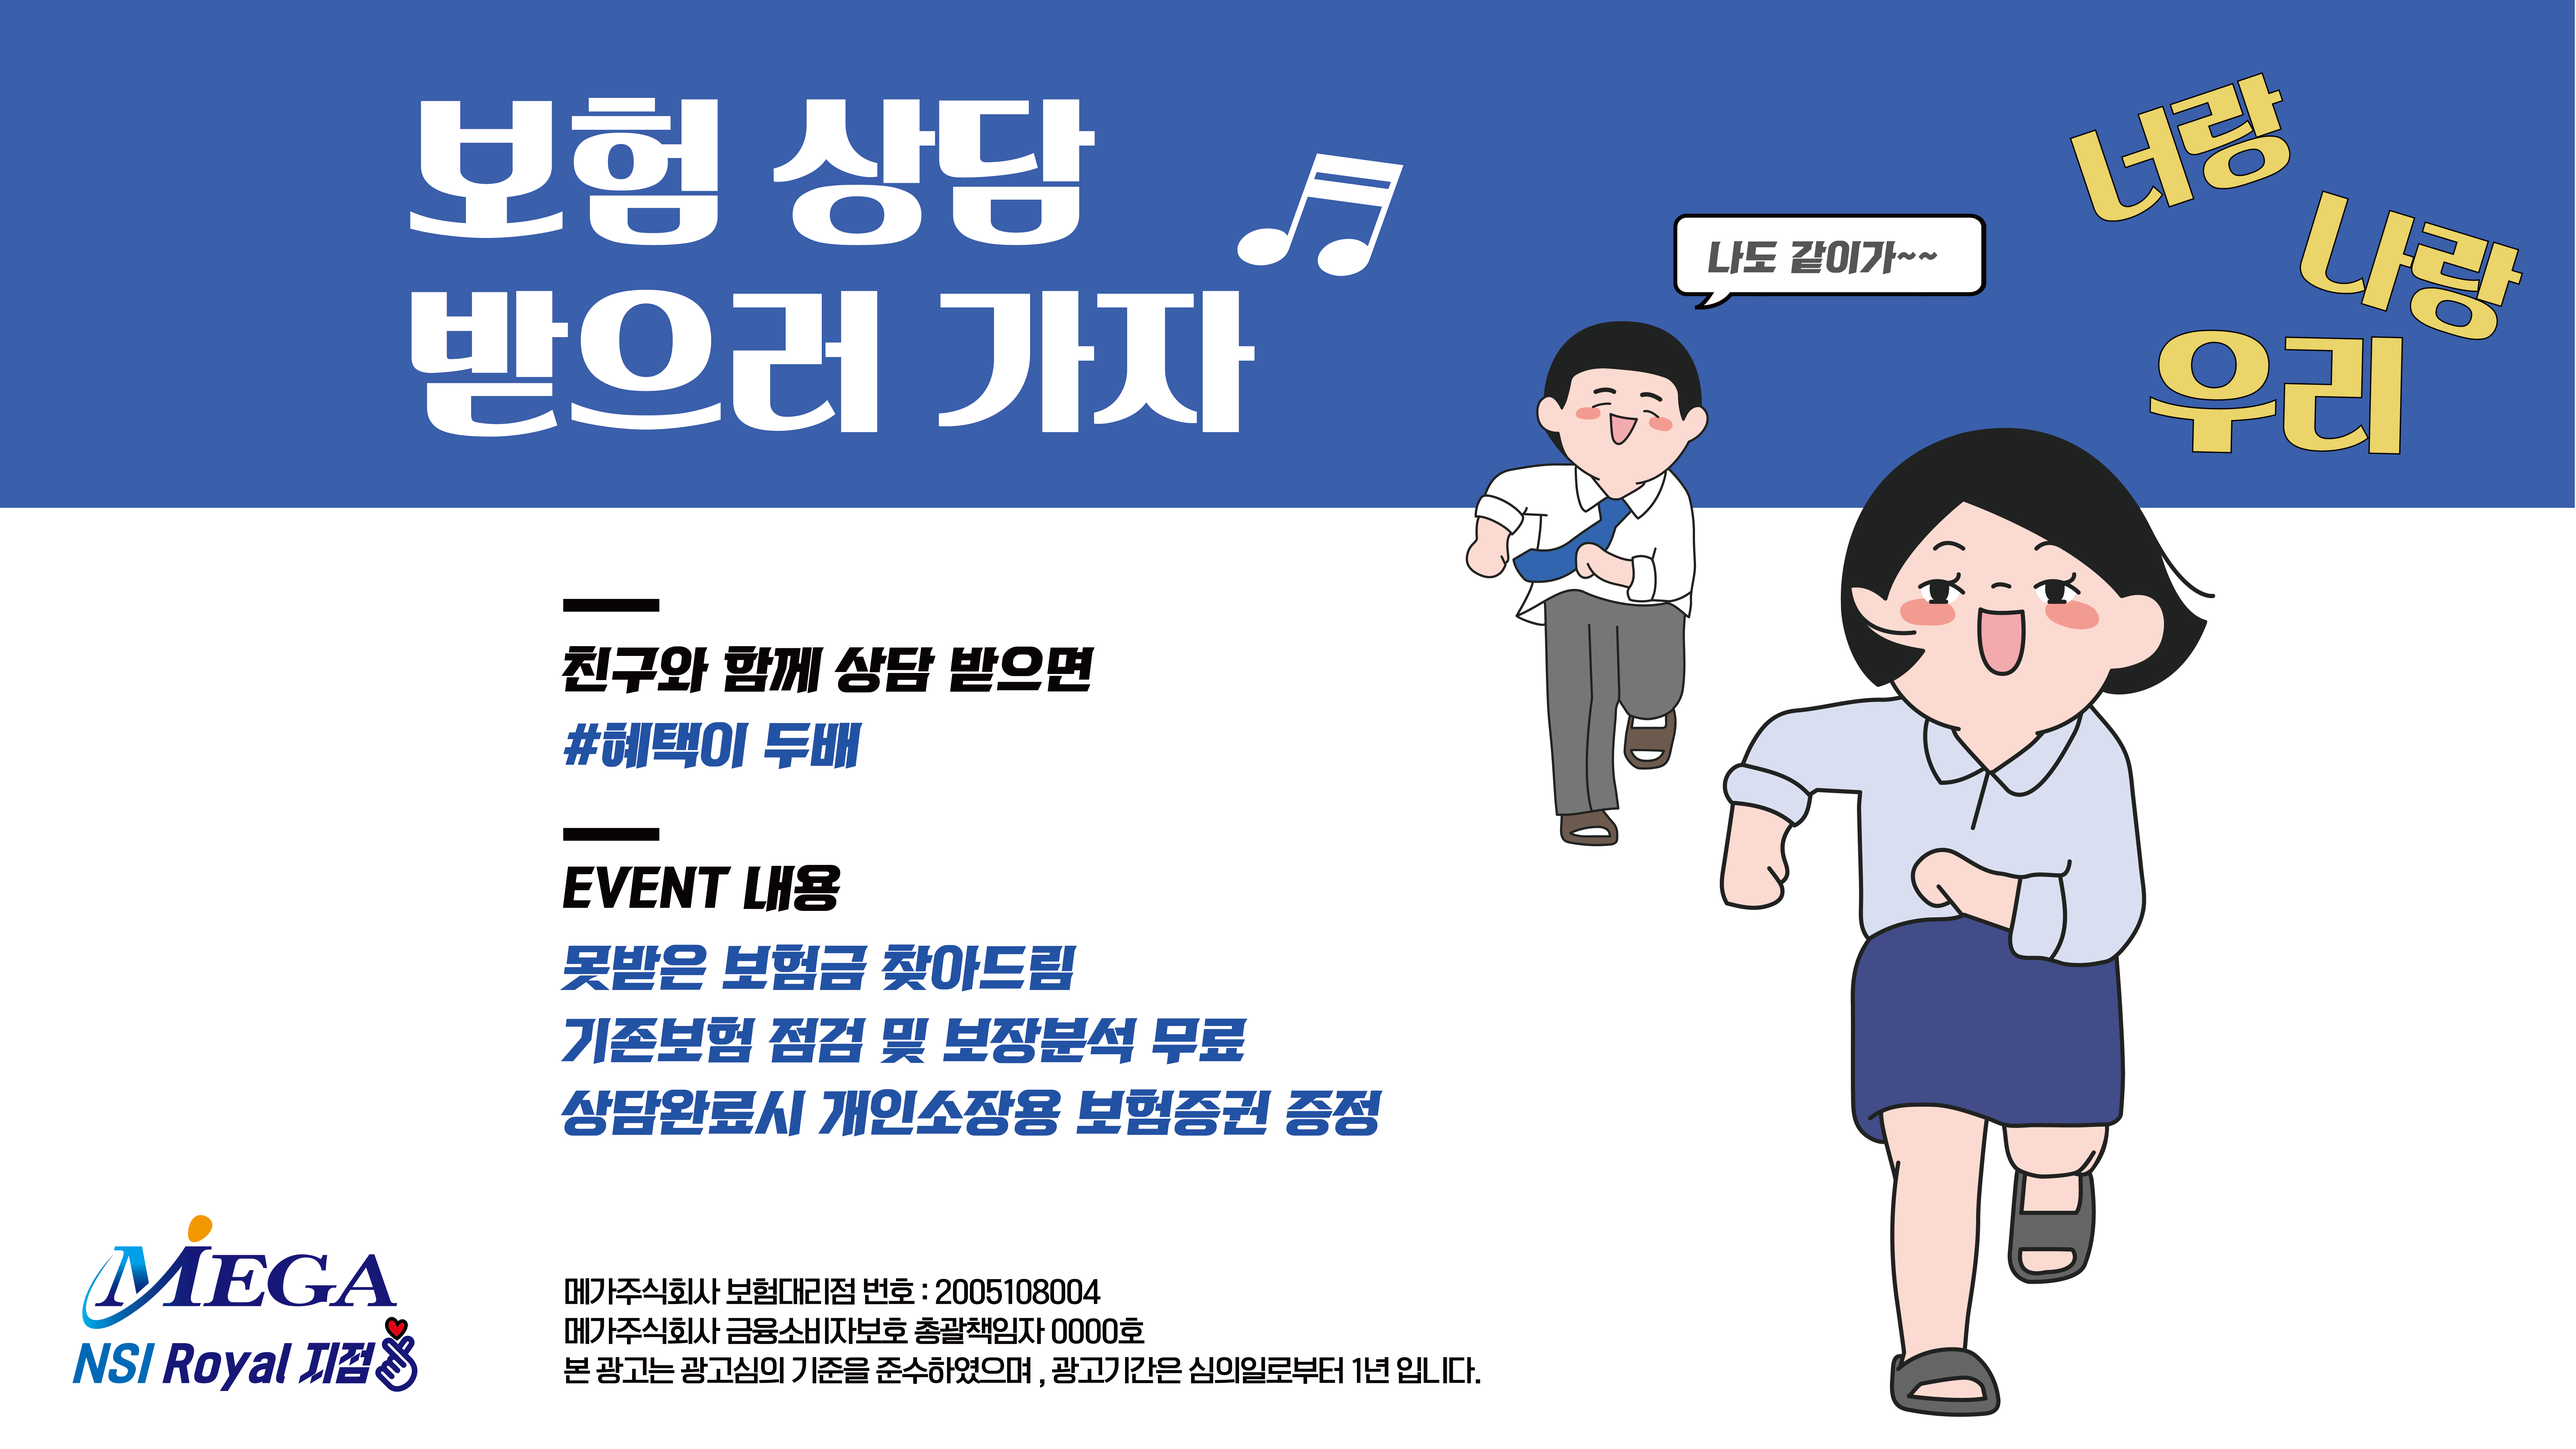
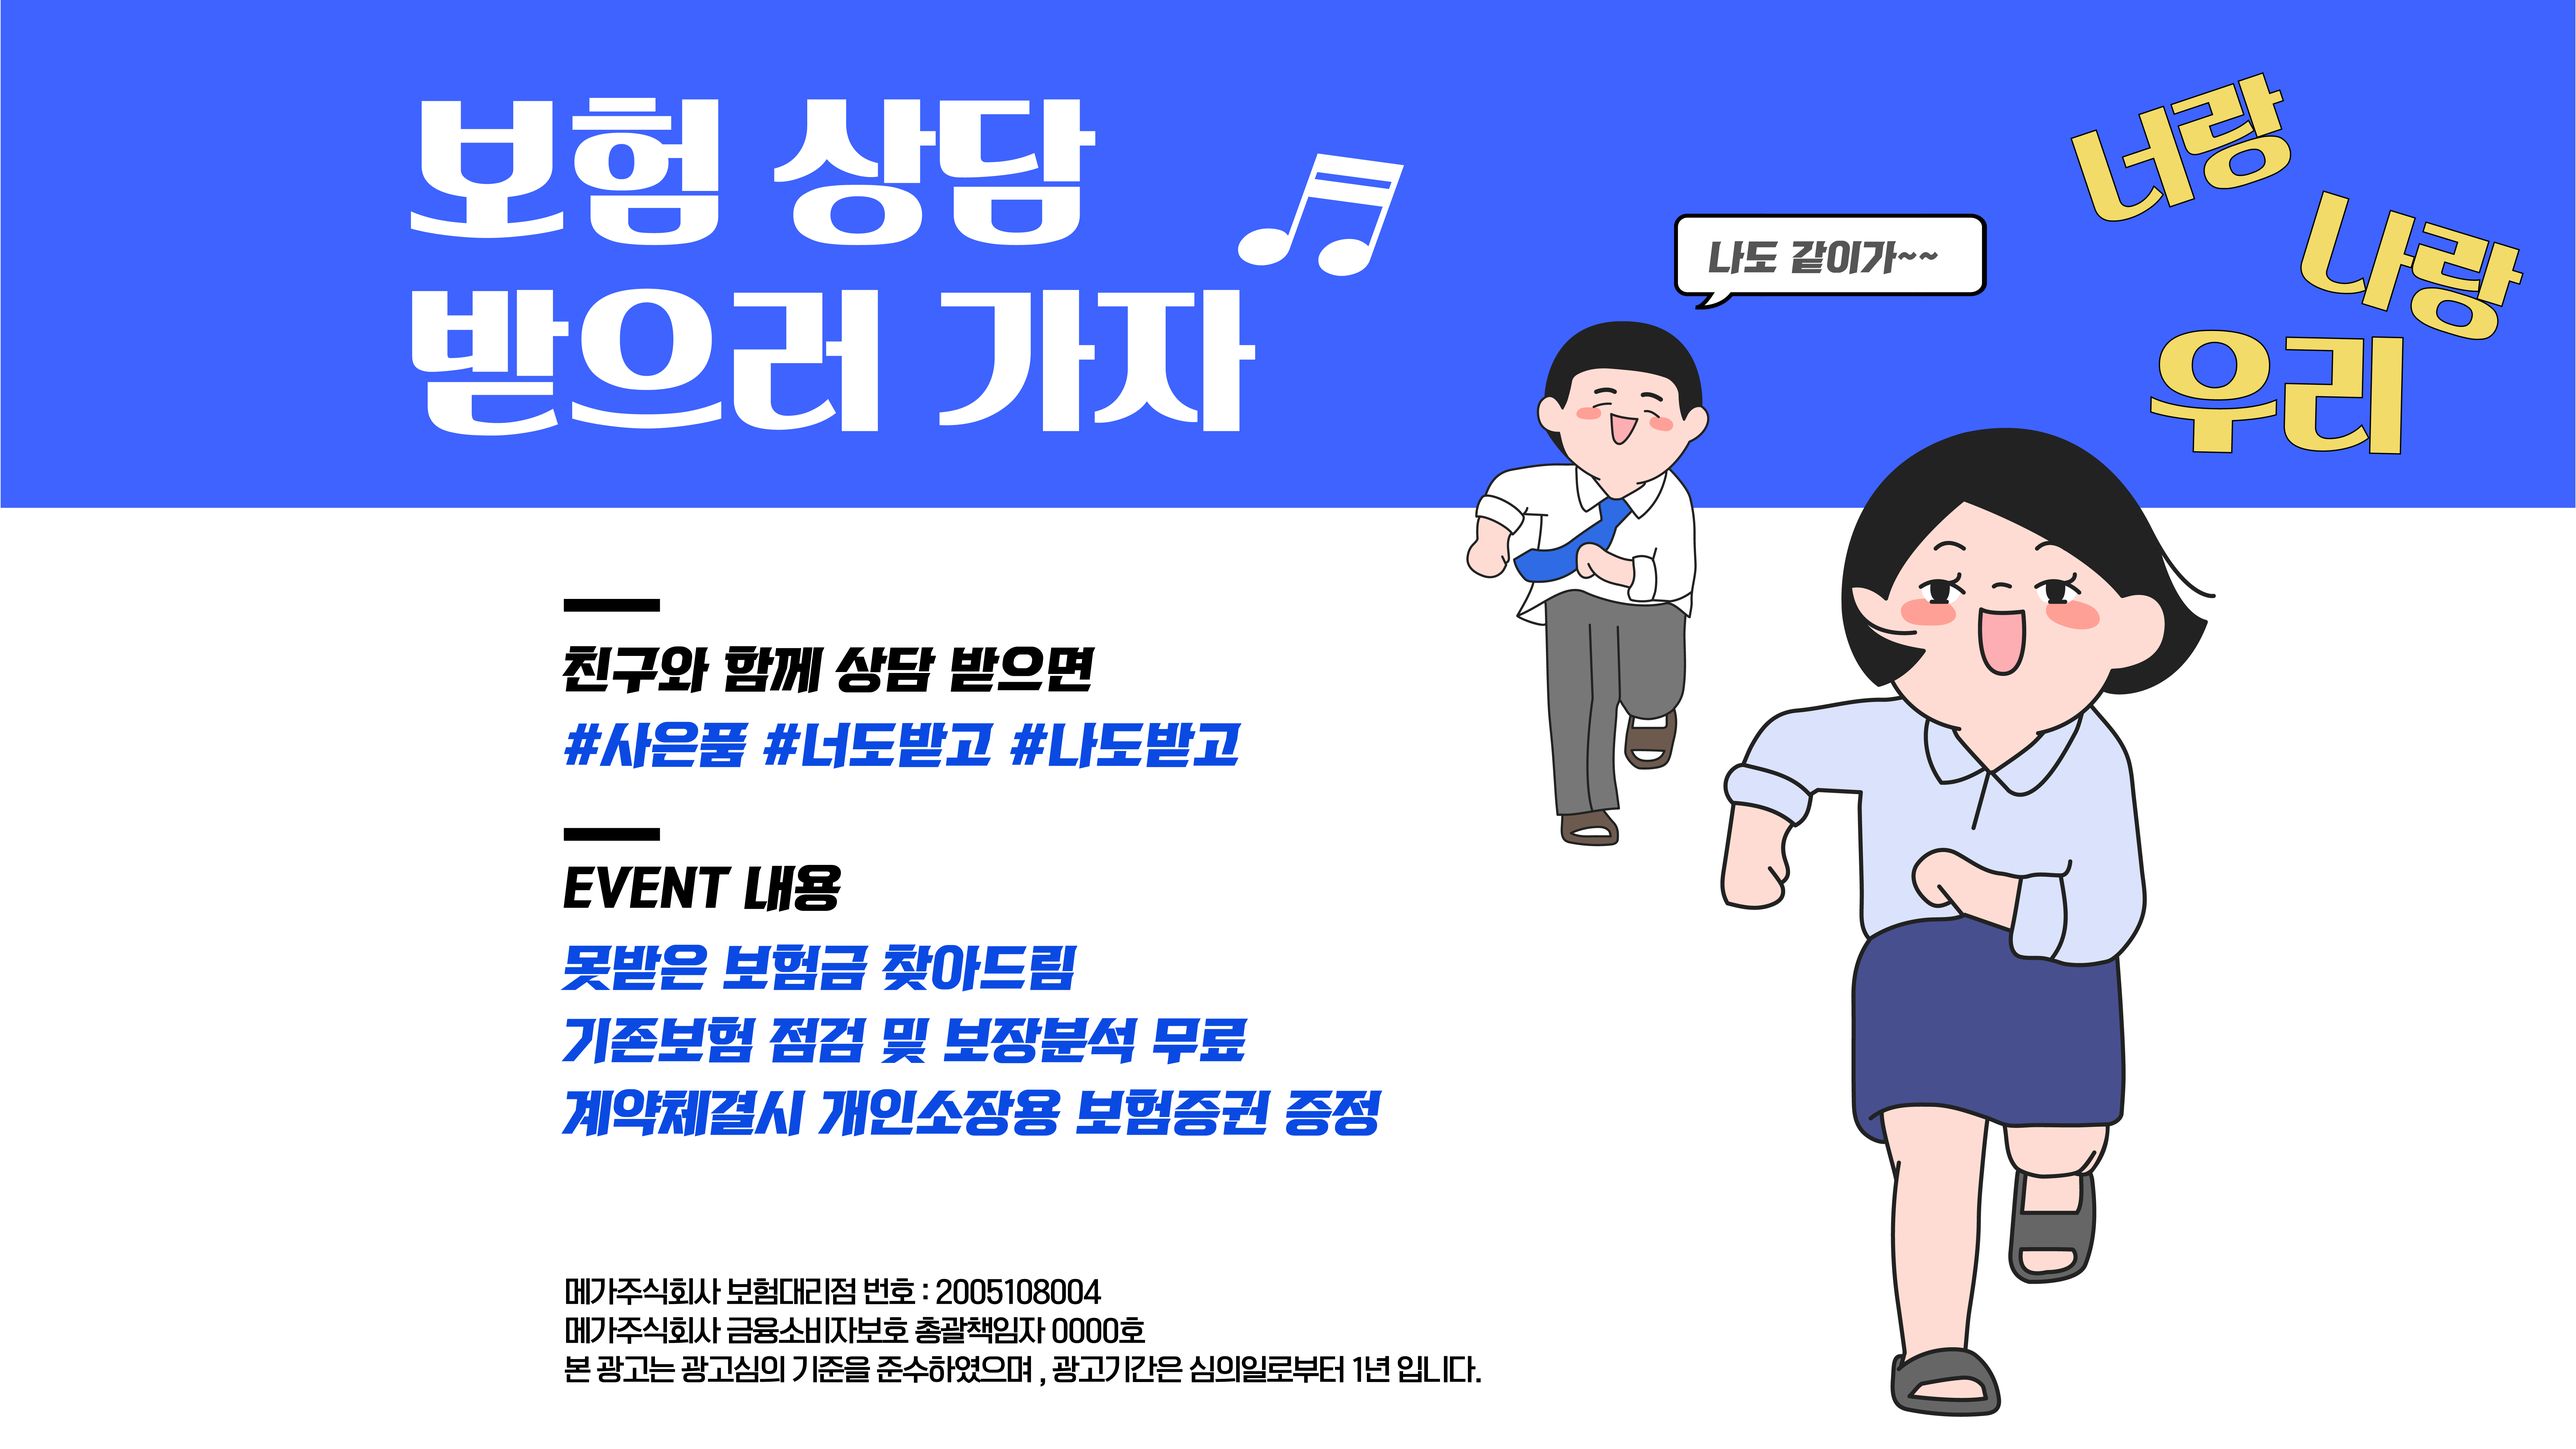
1.1

diff --git a/sub_index.html b/sub_index.html
@@ -9,12 +9,12 @@
 </head>
 
 <body>
-    <h3>㈜메가NSI는 상담신청 및 보험상품 소개를 위해 아래와 같이 고객님의 개인정보 수집, 이용 및 제공에 대한 동의를 받고 있습니다.</h3>
+    <h2>㈜메가NSI는 상담신청 및 보험상품 소개를 위해 아래와 같이 고객님의 개인정보 수집, 이용 및 제공에 대한 동의를 받고 있습니다.</h2>
     <p>
         <span style="font-weight: 900; font-size:15px;">1. 개인정보 수집∙이용및 파기절차에 대한 동의</span><br>
         당사는 「개인정보보호법」, 「정보통신망 이용촉진 및 정보 보호 등에 관한 법률」에 따라 귀하의 개인정보를 다음과 같이 수집·이용하고자 합니다.<br>
         <br>
-        -개인정보의 이용 목적 : 보험상품/서비스 소개 및 보험가입 상담<br>
+        -개인정보의 이용 목적 : 보험상품/서비스 소개 및 보험가입 상담 , 사은품 지급<br>
         -수집/이용하는 개인정보의 내용 : 성명,성별,생년월일,전화번호<br>
         -개인정보 보유·이용 기간 : 동의일로부터 3년<br>
         -보험상담 및 가입권유 연락방법: 전화, 문자, SNS<br>
@@ -28,8 +28,8 @@
         <span style="font-weight: 900; font-size:15px;">2. 개인정보 제공에 대한 동의</span><br>
         당사는 「개인정보보호법」, 「정보통신망 이용촉진 및 정보 보호 등에 관한 법률」에 따라 귀하의 개인정보를 다음과 같이 제3자에게 제공하고자 합니다.<br>
         <br>
-        -개인정보의 이용 목적 : 보험상품/서비스 소개 및 보험가입 상담<br>
-        -개인정보를 제공받는 자 : 당사에 소속된 보험 설계사,대리점<br>
+        -개인정보의 이용 목적 : 보험상품/서비스 소개 및 보험가입 상담 , 사은품 지급<br>
+        -개인정보를 제공받는 자 : (주)메가에 소속된 보험설계사 및 보험대리점<br>
         -개인정보를 제공받는 자의 이용목적 : 보험상품/서비스 소개 및 보험가입 상담<br>
         -제공할 개인정보의 내용 : 성명, 성별, 생년월일, 전화번호<br>
         -제공받는 자의 개인정보 보유·이용 기간 : 동의일로부터 3년<br>

diff --git a/main.js b/main.js
@@ -11,12 +11,12 @@ window.addEventListener('scroll', function () {
     let value = window.scrollY;
     console.log("scrollY", value);
 
-    if (screen.width > 1200 && value > 4200) {
+    if (1200 < screen.width <=1800 && value > 4500) {
         percentAnimation1.style.animation = 'percent-1 1s ease-in-out';
         percentAnimation2.style.animation = 'percent-2 1.5s ease-in-out';
         percentAnimation3.style.animation = 'percent-3 2s ease-in-out';
         percentAnimation4.style.animation = 'percent-4 2.5s ease-in-out';
-    } else if (991 < screen.width <= 1200 && value > 3400) {
+    } else if (991 < screen.width <= 1200 && value > 4000) {
         percentAnimation1.style.animation = 'percent-1 1s ease-in-out';
         percentAnimation2.style.animation = 'percent-2 1.5s ease-in-out';
         percentAnimation3.style.animation = 'percent-3 2s ease-in-out';
@@ -47,6 +47,12 @@ window.addEventListener('scroll', function () {
         percentAnimation3.style.animation = 'percent-disappear3 1s ease-out forwards';
         percentAnimation4.style.animation = 'percent-disappear4 1s ease-out forwards';
     }
+});
+
+
+window.addEventListener('scroll', function () {
+    let value = window.scrollY;
+    console.log("scrollY", value);
 
     if (screen.width > 1200 && value > 2200) {
         textAnimation.style.animation = 'text-1 2s ease-out'
@@ -64,6 +70,7 @@ window.addEventListener('scroll', function () {
         textAnimation.style.animation = 'text-disappear 1.5s ease-out forwards'
     }
 });
+
 
 let new_window_width = 600;
 let new_window_height = 700;

diff --git a/index.html b/index.html
@@ -234,7 +234,7 @@
                         하고 계신가요?</h2>
                 </div>
                 <div class="main-first-img">
-                    <img src="/images/phone_2.png" alt="">
+                    <img src="/images/e_phone.png" alt="">
                 </div>
                 <div class="main-second-txt">
                     <p>
@@ -294,7 +294,7 @@
             </div>
         </div>
         <div class="pre-container">
-            <img src="/images/pre.png" alt="">
+            <img src="/images/e_pre.png" alt="">
         </div>
         <div class="main-underbar">
             <h1>필 수 안 내 사 항</h1>
